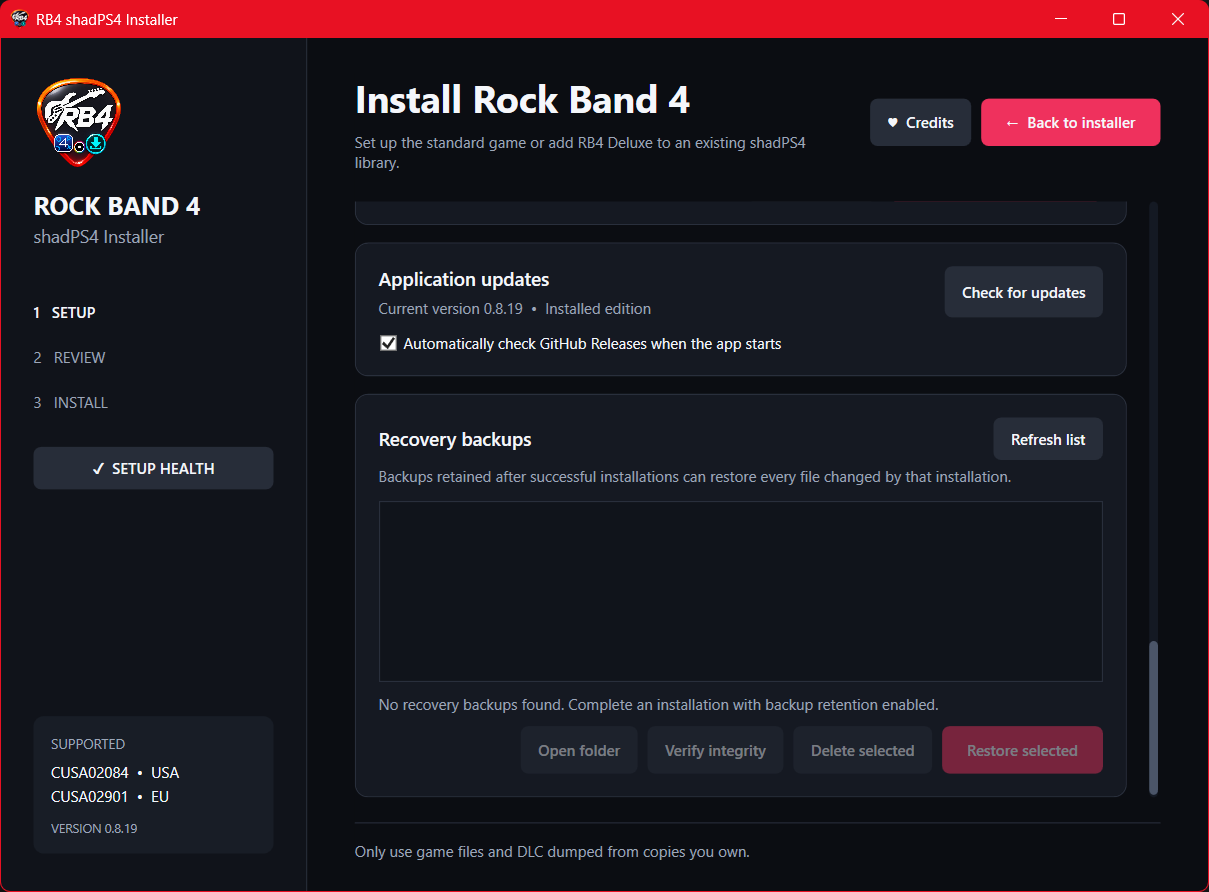
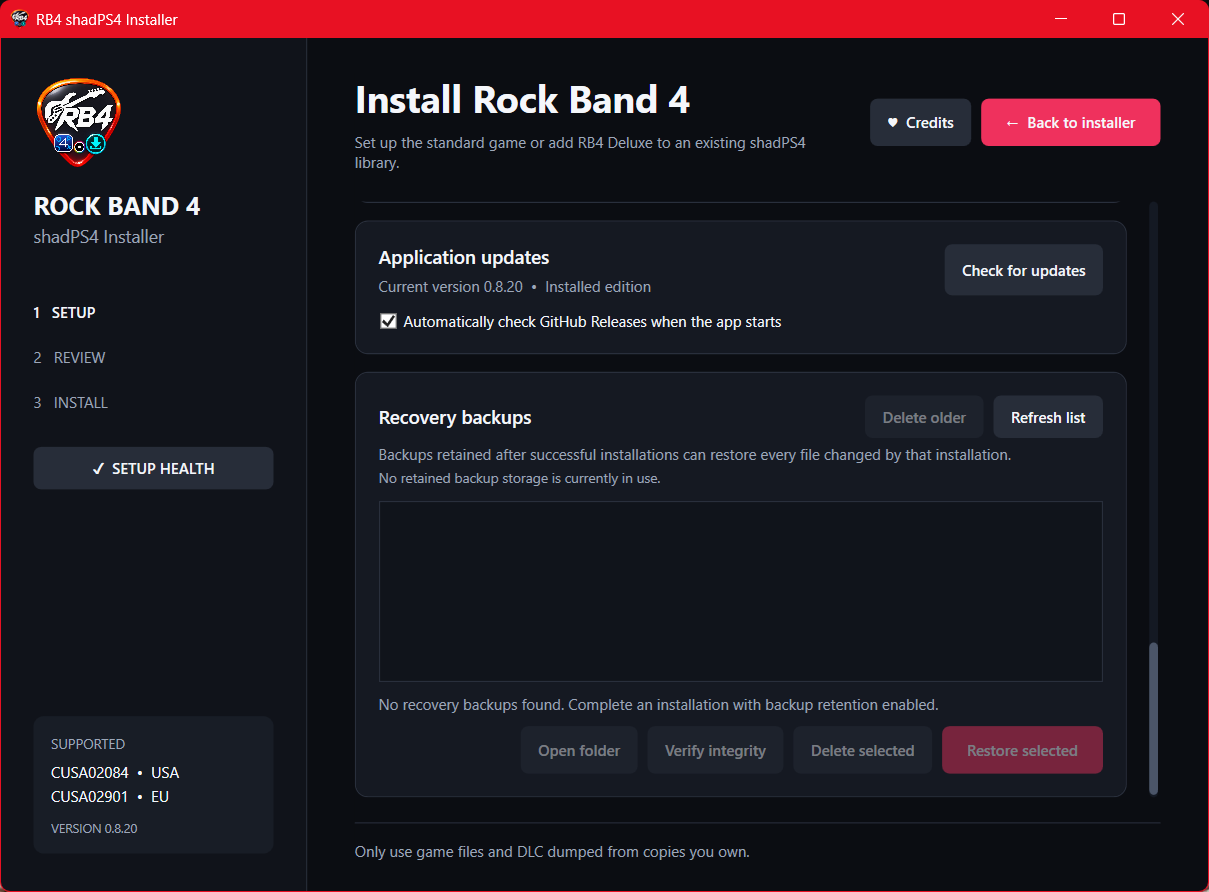
Add recovery backup storage cleanup

diff --git a/MainWindow.xaml b/MainWindow.xaml
@@ -608,12 +608,16 @@
                             BorderThickness="1" CornerRadius="10" Padding="18" Margin="0,14,0,0" Visibility="Collapsed">
                         <StackPanel>
                             <Grid>
-                                <Grid.ColumnDefinitions><ColumnDefinition /><ColumnDefinition Width="Auto" /></Grid.ColumnDefinitions>
+                                <Grid.ColumnDefinitions><ColumnDefinition /><ColumnDefinition Width="Auto" /><ColumnDefinition Width="Auto" /></Grid.ColumnDefinitions>
                                 <TextBlock Text="Recovery backups" FontWeight="SemiBold" FontSize="15" VerticalAlignment="Center" />
-                                <Button Grid.Column="1" Content="Refresh list" Style="{StaticResource SecondaryButton}" Click="RefreshBackups" />
+                                <Button x:Name="CleanupBackupsButton" Grid.Column="1" Content="Delete older" Style="{StaticResource SecondaryButton}"
+                                        IsEnabled="False" Click="CleanupOlderBackups" />
+                                <Button Grid.Column="2" Content="Refresh list" Style="{StaticResource SecondaryButton}" Margin="8,0,0,0" Click="RefreshBackups" />
                             </Grid>
                             <TextBlock Text="Backups retained after successful installations can restore every file changed by that installation."
-                                       Foreground="{StaticResource MutedTextBrush}" FontSize="12" Margin="0,5,0,12" TextWrapping="Wrap" />
+                                       Foreground="{StaticResource MutedTextBrush}" FontSize="12" Margin="0,5,0,3" TextWrapping="Wrap" />
+                            <TextBlock x:Name="BackupSummaryText" Foreground="{StaticResource MutedTextBrush}" FontSize="11"
+                                       Margin="0,0,0,12" TextWrapping="Wrap" />
                             <ListBox x:Name="BackupsList" Height="145" Background="#10141B" BorderBrush="{StaticResource PanelBorderBrush}"
                                      SelectionChanged="BackupSelectionChanged" HorizontalContentAlignment="Stretch">
                                 <ListBox.ItemTemplate>

diff --git a/MainWindow.xaml.cs b/MainWindow.xaml.cs
@@ -26,6 +26,7 @@ public partial class MainWindow : Window
     private InstallationLog? _installationLog;
     private string? _lastErrorDetails;
     private BackupInfo? _latestBackup;
+    private IReadOnlyList<BackupInfo> _olderBackups = [];
     private AppRelease? _latestAppRelease;
     private bool _checkingForAppUpdates;
     private bool _downloadingAppUpdate;
@@ -1092,9 +1093,15 @@ public partial class MainWindow : Window
     {
         if (BackupsList is null) return;
         var backups = BackupService.FindAll(PathUtility.Normalize(UserDirectoryText.Text));
+        _olderBackups = BackupService.FindCleanupCandidates(backups);
         BackupsList.ItemsSource = backups;
         BackupsList.SelectedIndex = backups.Count > 0 ? 0 : -1;
         NoBackupsText.Visibility = backups.Count == 0 ? Visibility.Visible : Visibility.Collapsed;
+        var storedBytes = backups.Sum(backup => backup.StoredBytes);
+        BackupSummaryText.Text = backups.Count == 0
+            ? "No retained backup storage is currently in use."
+            : $"{backups.Count:N0} backup(s) use {BackupService.FormatBytes(storedBytes)}. Cleanup keeps the newest backup for each game region.";
+        CleanupBackupsButton.IsEnabled = _olderBackups.Count > 0;
         UpdateBackupSelection();
     }
 
@@ -1165,6 +1172,37 @@ public partial class MainWindow : Window
         catch (Exception ex)
         {
             ShowStatus("Could not delete the recovery backup: " + ex.Message, true);
+        }
+        RefreshLatestBackup();
+    }
+
+    private void CleanupOlderBackups(object sender, RoutedEventArgs e)
+    {
+        if (_olderBackups.Count == 0) return;
+        var candidates = _olderBackups.ToArray();
+        var size = candidates.Sum(backup => backup.StoredBytes);
+        var confirmation = new ConfirmationWindow(
+            "Clean up recovery backups",
+            "Delete older recovery backups?",
+            $"This permanently deletes {candidates.Length:N0} older backup(s) using {BackupService.FormatBytes(size)}.\n\nThe newest backup for each game region will be kept. The current Rock Band 4 installation is not changed.",
+            "Delete older backups") { Owner = this };
+        if (confirmation.ShowDialog() != true) return;
+
+        var deleted = 0;
+        try
+        {
+            var userDirectory = PathUtility.Normalize(UserDirectoryText.Text);
+            foreach (var backup in candidates)
+            {
+                BackupService.Delete(backup, userDirectory);
+                deleted++;
+            }
+            ShowStatus($"Deleted {deleted:N0} older backup(s) and reclaimed approximately {BackupService.FormatBytes(size)}.", false, success: true);
+        }
+        catch (Exception ex)
+        {
+            _lastErrorDetails = ex.ToString();
+            ShowStatus($"Cleanup stopped after deleting {deleted:N0} backup(s): {ex.Message}", true);
         }
         RefreshLatestBackup();
     }

diff --git a/Services/BackupService.cs b/Services/BackupService.cs
@@ -7,14 +7,58 @@ namespace RB4ShadPS4Installer.Services;
 internal sealed record BackupInfo(string Root, BackupManifest Manifest)
 {
     public string DisplayTitle => $"{Manifest.TitleId}  •  {Manifest.CreatedAt.ToLocalTime():g}";
-    public string DisplayDetails => $"{Manifest.Files.Count:N0} affected file(s)  •  " +
+    public long StoredBytes => CalculateStoredBytes();
+    public string DisplayDetails => $"{Manifest.Files.Count:N0} affected file(s)  •  {BackupService.FormatBytes(StoredBytes)}  •  " +
                                     (Manifest.FormatVersion >= 2 ? "SHA-256 protected" : "legacy backup");
+
+    private long CalculateStoredBytes()
+    {
+        long total = 0;
+        foreach (var entry in Manifest.Files.Where(entry => entry.Existed))
+        {
+            if (string.IsNullOrWhiteSpace(entry.BackupRelativePath)) continue;
+            try
+            {
+                var root = Path.GetFullPath(Root);
+                var path = Path.GetFullPath(Path.Combine(Root, entry.BackupRelativePath));
+                var relative = Path.GetRelativePath(root, path);
+                if (Path.IsPathFullyQualified(relative) || relative == ".." ||
+                    relative.StartsWith(".." + Path.DirectorySeparatorChar, StringComparison.Ordinal) ||
+                    relative.StartsWith(".." + Path.AltDirectorySeparatorChar, StringComparison.Ordinal))
+                    continue;
+                if (File.Exists(path)) total += new FileInfo(path).Length;
+            }
+            catch (Exception) { }
+        }
+        return total;
+    }
 }
 
 internal sealed record BackupValidationResult(bool IsValid, bool IsCryptographicallyVerified, int CheckedFiles, string Message);
 
 internal static class BackupService
 {
+    public static IReadOnlyList<BackupInfo> FindCleanupCandidates(IReadOnlyList<BackupInfo> backups) =>
+        backups
+            .GroupBy(backup => backup.Manifest.TitleId, StringComparer.OrdinalIgnoreCase)
+            .SelectMany(group => group.OrderByDescending(backup => backup.Manifest.CreatedAt).Skip(1))
+            .OrderBy(backup => backup.Manifest.CreatedAt)
+            .ToArray();
+
+    public static string FormatBytes(long bytes)
+    {
+        string[] units = ["B", "KB", "MB", "GB", "TB"];
+        var value = Math.Max(0, bytes);
+        var unit = 0;
+        var display = (double)value;
+        while (display >= 1024 && unit < units.Length - 1)
+        {
+            display /= 1024;
+            unit++;
+        }
+        return unit == 0 ? $"{display:N0} {units[unit]}" : $"{display:N1} {units[unit]}";
+    }
+
     public static IReadOnlyList<BackupInfo> FindAll(string userDirectory)
     {
         var root = Path.Combine(userDirectory, "rb4-installer-backups");

diff --git a/docs/wiki/Managing-an-Existing-Installation.md b/docs/wiki/Managing-an-Existing-Installation.md
@@ -40,4 +40,6 @@ New recovery backups store the original size and SHA-256 checksum of every prote
 
 Backups created by versions before 0.8.19 remain available and receive structural checks for required files and safe paths. They are labeled **legacy backup** because their older manifests do not contain cryptographic checksums.
 
+The recovery manager reports the stored size of each backup and the collection's total disk usage. **Delete older** permanently removes only superseded backups and always keeps the newest recovery point independently for each supported game region. A confirmation shows the number of backups and approximate space to reclaim before anything is deleted.
+
 Close shadPS4 before changing game files, restoring a backup, or updating a managed emulator build.

diff --git a/README.md b/README.md
@@ -41,7 +41,7 @@
 | **Firmware setup** | Validates and imports decrypted `.sprx` modules plus dumped `font` and `font2` folders from the user's own PS4 |
 | **Existing installs** | Detects region, game version, Deluxe, and installed add-ons |
 | **Setup health** | Checks emulator/profile alignment, RB4 2.21, RB4DX, modules, fonts, disk space, and the latest launch log; exports redacted support bundles |
-| **Safety** | SHA-256 checks, integrity-protected backups, rollback, and install logs |
+| **Safety** | SHA-256 checks, integrity-protected backups, conservative storage cleanup, rollback, and install logs |
 | **Convenience** | Drag-and-drop, remembered paths, desktop shortcuts, and verified self-updates |
 
 Supported game regions:

diff --git a/docs/release-notes/v0.8.20.md b/docs/release-notes/v0.8.20.md
@@ -1,0 +1,12 @@
+# RB4 shadPS4 Installer v0.8.20
+
+This release makes retained recovery-backup storage visible and easier to manage safely.
+
+## Added
+
+- Each backup now shows how much disk space its protected files use.
+- The recovery manager summarizes the total number and size of retained backups.
+- **Delete older** cleans up superseded recovery points while always retaining the newest backup for each game region.
+- Cleanup confirmation shows exactly how many backups will be deleted and the approximate space reclaimed.
+
+Individual verification, restoration, folder access, and deletion remain available. Cleanup never changes the current game installation.
